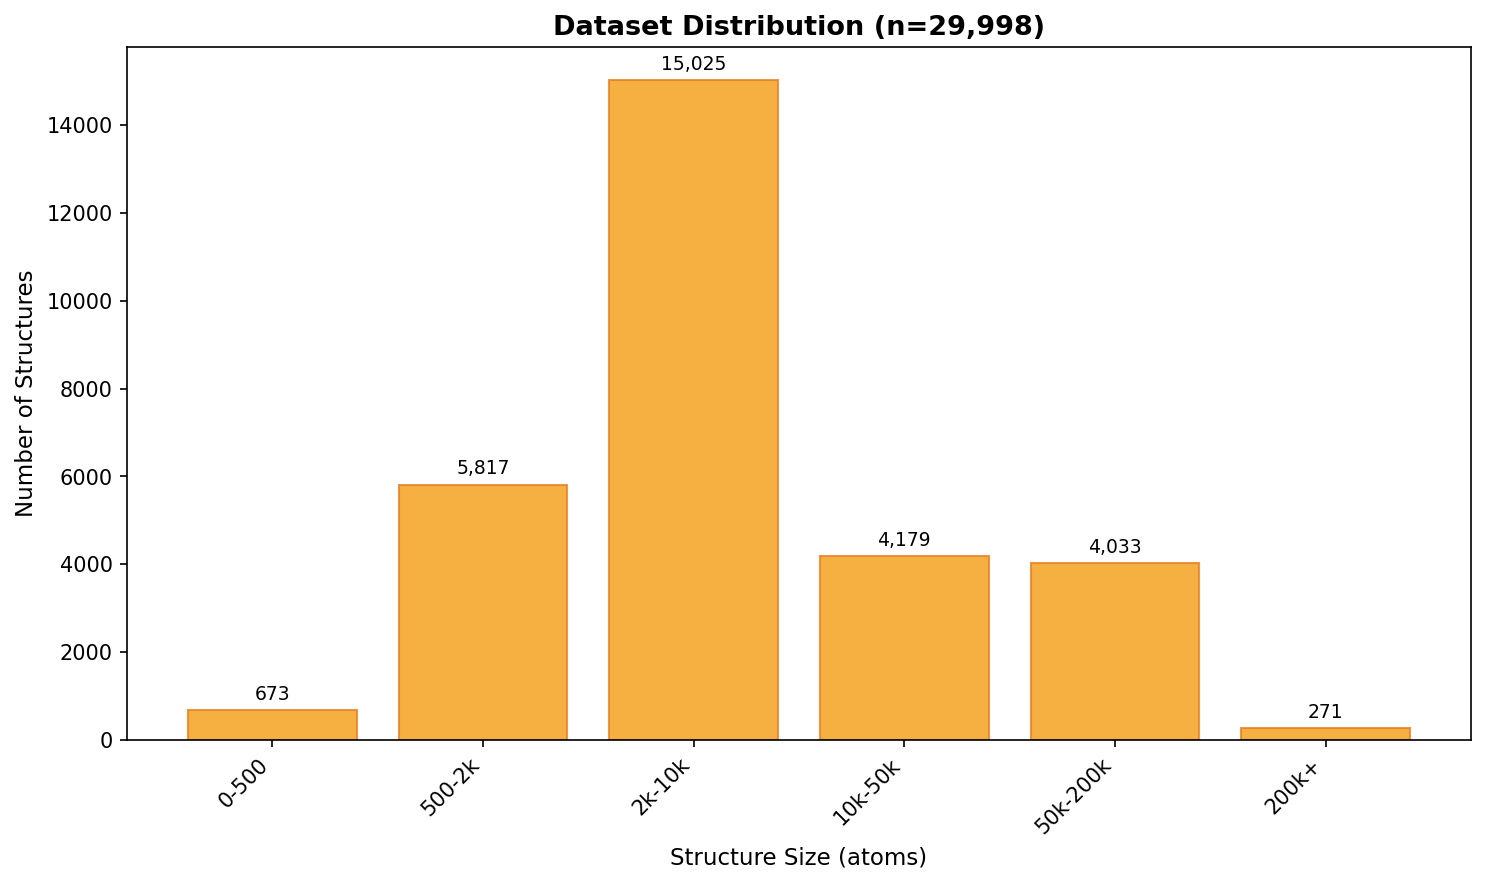
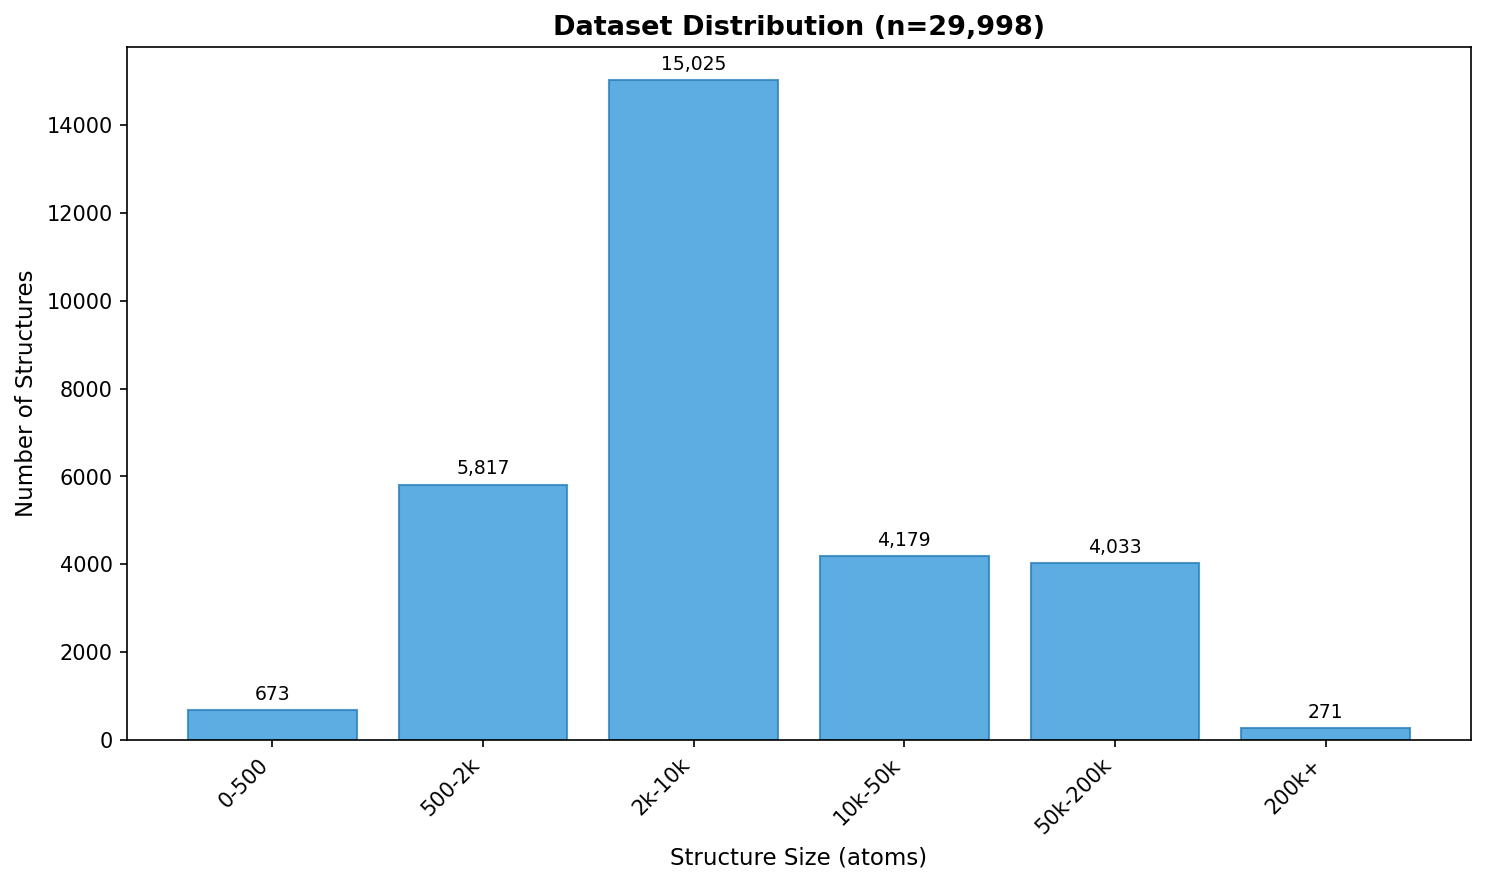
feat: Add color option to sample.py plot command (#81)
Add --color option with preset colors (orange/blue/green/red/purple) and
hex code support for dataset distribution plots. Regenerate LR plot with
blue color to differentiate from SR (orange).

Changed region(s): [[0.1239, 0.0916, 0.8054, 0.8552], [0.8364, 0.8247, 0.9603, 0.8552]]

diff --git a/benchmarks/scripts/sample.py b/benchmarks/scripts/sample.py
@@ -253,6 +253,16 @@ def main(
     console.print(f"  Samples: [cyan]{len(samples):,}[/cyan]")
 
 
+# Preset colors for plots
+COLOR_PRESETS = {
+    "orange": ("#f39c12", "#e67e22"),
+    "blue": ("#3498db", "#2980b9"),
+    "green": ("#2ecc71", "#27ae60"),
+    "red": ("#e74c3c", "#c0392b"),
+    "purple": ("#9b59b6", "#8e44ad"),
+}
+
+
 @app.command()
 def plot(
     sample_path: Annotated[
@@ -265,6 +275,12 @@ def plot(
             "--output", "-o", help="Output PNG path (default: plots/dataset/<name>.png)"
         ),
     ] = None,
+    color: Annotated[
+        str,
+        typer.Option(
+            "--color", "-c", help="Bar color (orange/blue/green/red/purple or hex code)"
+        ),
+    ] = "orange",
 ) -> None:
     """Generate distribution bar chart for a sample file."""
     import matplotlib.pyplot as plt
@@ -282,6 +298,13 @@ def plot(
         console.print("[red]Error:[/red] No distribution data in sample file")
         raise typer.Exit(1)
 
+    # Resolve color
+    if color in COLOR_PRESETS:
+        fill_color, edge_color = COLOR_PRESETS[color]
+    else:
+        fill_color = color
+        edge_color = color
+
     # Extract data for plotting
     bins = list(dist.keys())
     counts = [dist[b]["sampled"] for b in bins]
@@ -289,7 +312,7 @@ def plot(
     # Create plot
     fig, ax = plt.subplots(figsize=(10, 6))
     x = range(len(bins))
-    bars = ax.bar(x, counts, color="#f39c12", alpha=0.8, edgecolor="#e67e22")
+    bars = ax.bar(x, counts, color=fill_color, alpha=0.8, edgecolor=edge_color)
 
     ax.set_xlabel("Structure Size (atoms)", fontsize=11)
     ax.set_ylabel("Number of Structures", fontsize=11)
